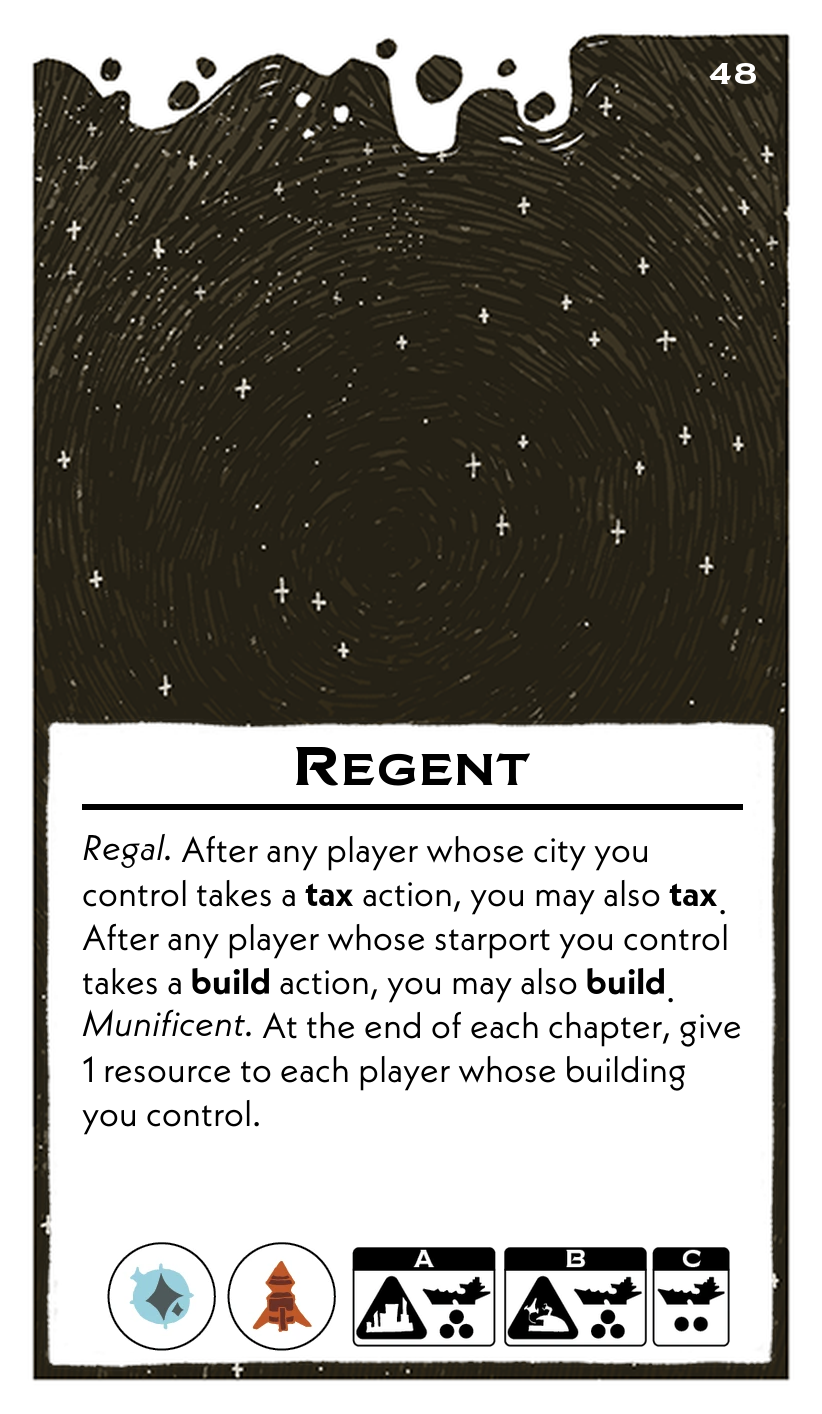
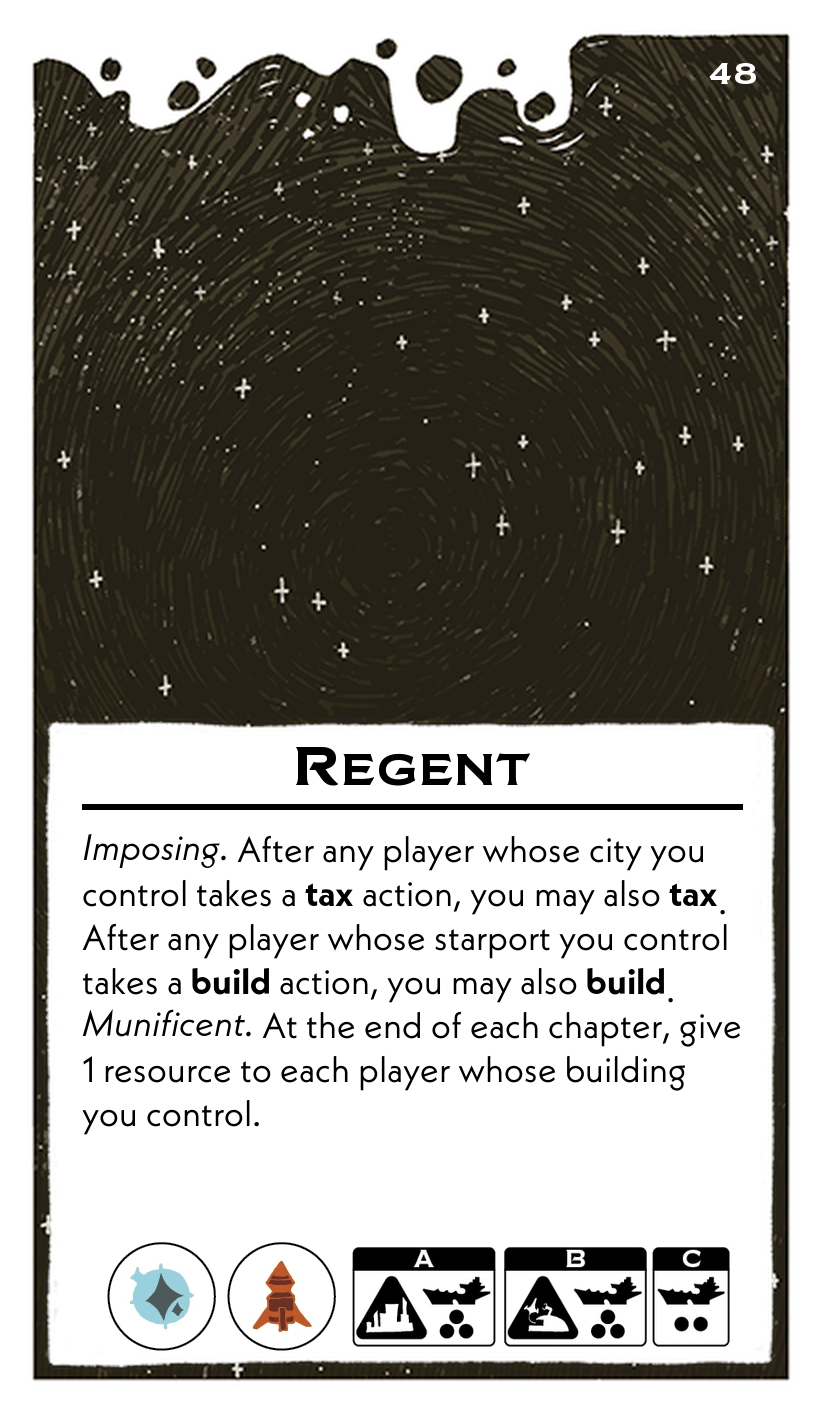
4 new ls

Changed region(s): [[0.0912, 0.5912, 0.8516, 0.6223]]

diff --git a/scripts/leadersFormatted.py b/scripts/leadersFormatted.py
@@ -740,7 +740,7 @@ leaders = [
     {
         "name": "Regent",
         "abilities": (
-            "*Regal.* After any player whose city you control takes a **tax** action, you may also **tax**. After any player whose starport you control takes a **build** action, you may also **build**.\n"
+            "*Imposing.* After any player whose city you control takes a **tax** action, you may also **tax**. After any player whose starport you control takes a **build** action, you may also **build**.\n"
             "*Munificent.* At the end of each chapter, give 1 resource to each player whose building you control."
         ),
         "resources": ["Relic", "Weapon"],
@@ -820,5 +820,76 @@ leaders = [
             "C": {"ships": 2, "building": "None"}
         },
         "body_font_size": 18
+    },
+    {
+        "name": "Forager",
+        "abilities": (
+            "*Rooting.* When you **move** into a planet with no pieces, gain 1 matching resource.\n"
+            "*Territorial.* When you **move** out of a planet, if it would be left empty, you must leave 1 of your pieces there."
+        ),
+        "resources": ["Material", "Fuel"],
+        "setup": {
+            "A": {"ships": 3, "building": "None"},
+            "B": {"ships": 3, "building": "None"},
+            "C": {"ships": 3, "building": "None"}
+        },
+        "body_font_size": 18
+    },
+    {
+        "name": "Highroller",
+        "abilities": (
+            "*Audacious.* After you roll dice in **battle**, you may damage 1 of your attacking ships to reroll all dice.\n"
+            "*Feverish.* After you reroll dice in **battle**, Provoke Outrage in any resource."
+        ),
+        "resources": ["Weapon", "Fuel"],
+        "setup": {
+            "A": {"ships": 3, "building": "city"},
+            "B": {"ships": 3, "building": "starport"},
+            "C": {"ships": 3, "building": "None"}
+        },
+        "body_font_size": 18
+    },
+    {
+        "name": "Insurgent",
+        "abilities": (
+            "*Seditious.* After attacking in **battle**, you may **influence** a card with a defender's agent on it.\n"
+            "*Decentralized.* You cannot **repair** ships."
+        ),
+        "resources": ["Weapon", "Psionic"],
+        "setup": {
+            "A": {"ships": 3, "building": "starport"},
+            "B": {"ships": 3, "building": "None"},
+            "C": {"ships": 3, "building": "None"}
+        },
+        "body_font_size": 18
+    },
+    {
+        "name": "Bomber",
+        "abilities": (
+            "*Incendiary.* When attacking in **battle**, before rolling dice, you may destroy 1 attacking ship to destroy 2 defending pieces.\n"
+            "*Abhored.* When you destroy a starport also provoke outrage of its system."
+        ),
+        "resources": ["Weapon", "Fuel"],
+        "setup": {
+            "A": {"ships": 3, "building": "starport"},
+            "B": {"ships": 3, "building": "city"},
+            "C": {"ships": 2, "building": "None"}
+        },
+        "body_font_size": 18
+    },
+    {
+        "name": "Musician",
+        "abilities": (
+            "*Inspiring.* Instead of discarding a card to seize, you may give 1 resource to the player with the initiative to seize it.\n"
+            "*Temperamental.* When you gain the iniative, damage 1 loyal ship."
+        ),
+        "resources": ["Psionic", "Relic"],
+        "setup": {
+            "A": {"ships": 3, "building": "city"},
+            "B": {"ships": 3, "building": "starport"},
+            "C": {"ships": 2, "building": "None"}
+        },
+        "body_font_size": 18
     }
+
 ]
